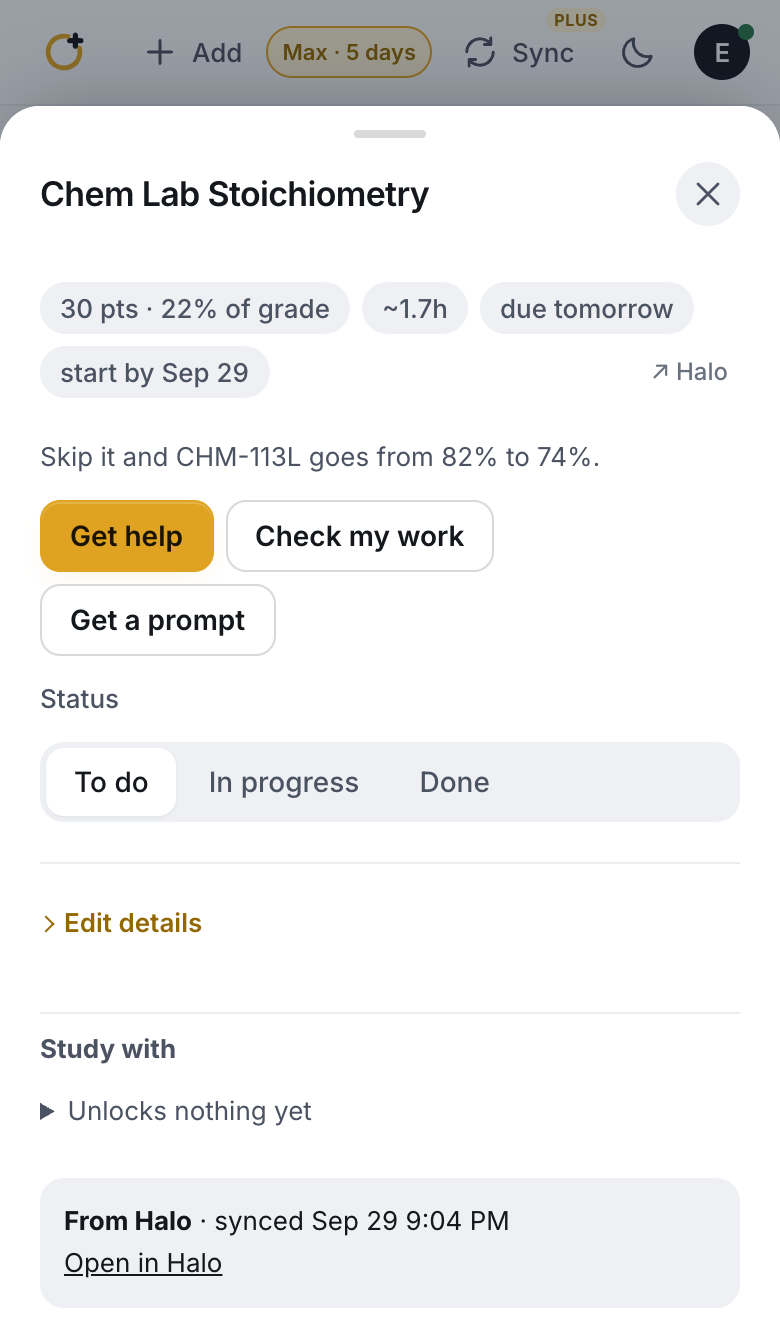
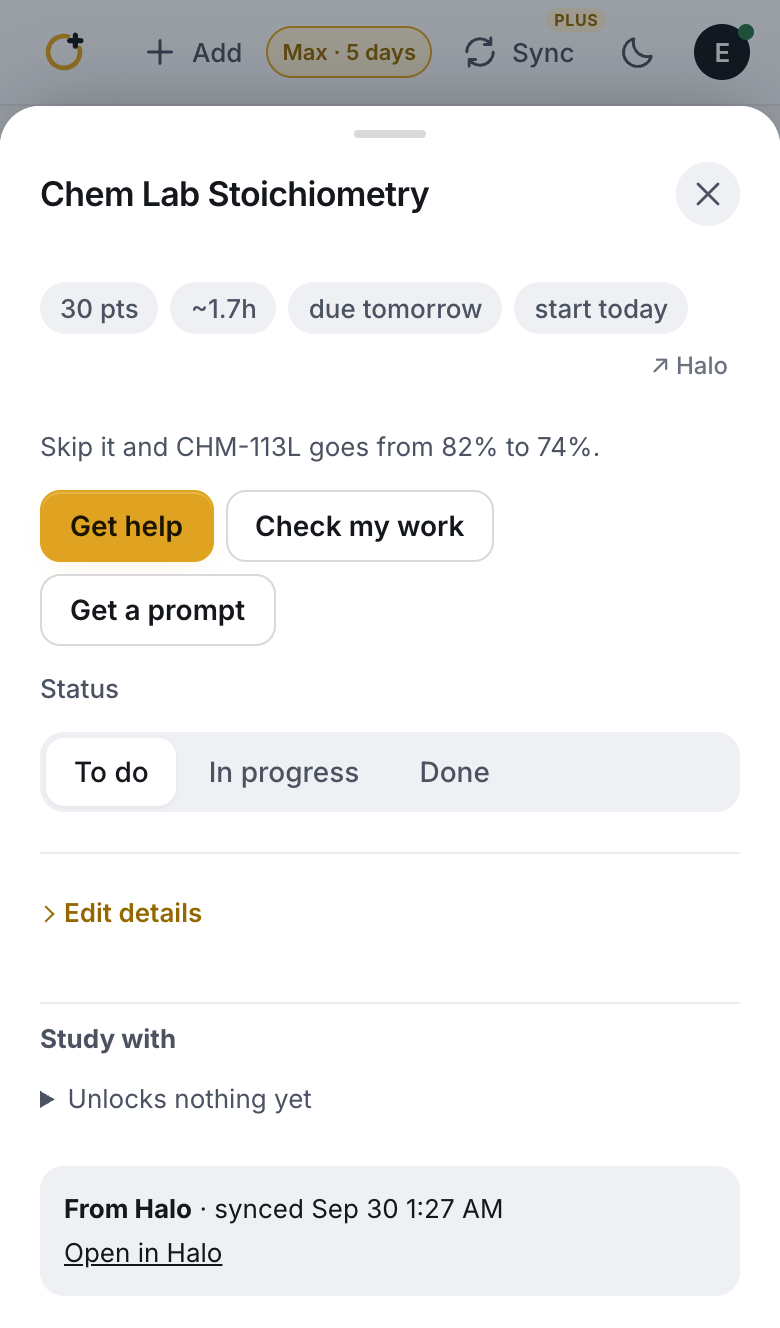
Loop 167: start-by says start today / start tomorrow / start by Oct 3, one way on rows and the sheet

diff --git a/src/components/ItemRow.tsx b/src/components/ItemRow.tsx
@@ -1,7 +1,7 @@
 import { skipNote } from '../domain/blocked';
 import { HaloJump } from './HaloJump';
 import { movedRecently } from '../domain/requirements';
-import { dateOf, fmtDate, fmtTime } from '../domain/dates';
+import { dateOf, fmtDate, fmtTime, startByLabel } from '../domain/dates';
 import { useEffect, useState } from 'react';
 import type { Item } from '../domain/types';
 import { useStore } from '../storage/store';
@@ -87,7 +87,7 @@ export function ItemRow({ item, onOpen, showStart = false, compact = false, date
           {item.flags.inClass && <span className="flag">in class</span>}
           {item.flags.group && <span className="flag">group</span>}
           {done && haloSaysNotIn(item) && item.halo && item.halo.checkedAt > item.dueAt && <span className="flag flag-late">Halo says not submitted</span>}
-          {showStart && sched && !done && !sched.risk && <span>start by {shortDate(sched.startBy)}</span>}
+          {showStart && sched && !done && !sched.risk && <span>{startByLabel(sched.startBy, today)}</span>}
         </span>
       </button>
       <span className="item-side">
@@ -101,9 +101,4 @@ export function ItemRow({ item, onOpen, showStart = false, compact = false, date
       </span>
     </li>
   );
-}
-
-function shortDate(d: string): string {
-  const [, m, day] = d.split('-');
-  return `${Number(m)}/${Number(day)}`;
 }

diff --git a/src/views/ItemDetail.tsx b/src/views/ItemDetail.tsx
@@ -21,7 +21,7 @@ import { Requirements } from './Requirements';
 import { RulesOnItem } from './ClassRules';
 import { Sure } from './PlanReview';
 import { WorkPanel } from './WorkPanel';
-import { addDays } from '../domain/dates';
+import { addDays, startByLabel } from '../domain/dates';
 import { Modal } from '../components/Modal';
 import { SegmentedControl } from '../components/SegmentedControl';
 import { dateOf, fmtDate, fmtMinutes, makeIso, zonedParts } from '../domain/dates';
@@ -191,7 +191,7 @@ export function ItemDetail({ item, isNew = false, onClose }: { item: Item; isNew
               </span>
             ))}
             {/* A start-by day that has passed is noise next to "due was": the only advice left is to start. */}
-            {sched && item.status !== 'done' && sched.startBy >= today && <span className="pill">start by {fmtDate(sched.startBy, 'short')}</span>}
+            {sched && item.status !== 'done' && sched.startBy >= today && <span className="pill">{startByLabel(sched.startBy, today)}</span>}
             <HaloJump item={item} course={course} />
           </p>
         )}

diff --git a/src/domain/dates.test.ts b/src/domain/dates.test.ts
@@ -72,3 +72,13 @@ describe('dates', () => {
     expect(fmtTime('2026-09-25T08:00:00-07:00', PHX)).toBe('8:00 AM');
   });
 });
+
+describe('startByLabel', () => {
+  it('says today and tomorrow in words, a later day as a date, and never a day already past', async () => {
+    const { startByLabel } = await import('./dates');
+    expect(startByLabel('2026-09-30', '2026-09-30')).toBe('start today');
+    expect(startByLabel('2026-09-29', '2026-09-30')).toBe('start today');
+    expect(startByLabel('2026-10-01', '2026-09-30')).toBe('start tomorrow');
+    expect(startByLabel('2026-10-03', '2026-09-30')).toBe('start by Oct 3');
+  });
+});

diff --git a/src/domain/dates.ts b/src/domain/dates.ts
@@ -191,3 +191,10 @@ export function fmtMinutes(min: number): string {
   const h = min / 60;
   return Number.isInteger(h) ? `${h}h` : `${h.toFixed(1).replace(/\.0$/, '')}h`;
 }
+
+/** "start today", "start tomorrow" or "start by Oct 3": one wording for the start-by date on rows and the sheet. */
+export function startByLabel(startBy: DateStr, today: DateStr): string {
+  if (startBy <= today) return 'start today';
+  if (startBy === addDays(today, 1)) return 'start tomorrow';
+  return `start by ${fmtDate(startBy, 'short')}`;
+}

diff --git a/LOOP_LOG.md b/LOOP_LOG.md
@@ -193,3 +193,4 @@ One line per change, newest last. Proposals that need George's approval are mark
 - 2026-09-30 · Loop 164 (overnight loop 7 of 10) · New student on an iPad, dark (first-five walk, iPad dark and phone light, no console errors): Now's hero said "English DQ 1.1 · 10 pts · 67% of grade". The share was the item's points over whatever the class had on file, with no minimum, so right after a first sync (or whenever Halo lists only a few assignments) a 10-point discussion looked like two-thirds of the grade; the sweep account showed "Quiz 2 · 50 pts · 53% of grade" the same way, and the old test even expected "100% of grade" for a lone item. The share now needs at least six pointed items in the class (domain/share.ts SHARE_MIN_ITEMS); below that the chip says just "10 pts". Checked against George's real account (read only): every class has 27 to 41 pointed items and about 1,000 points, so real students still see it. Tests: share and heroFacts updated (a thin class shows the points alone).
 - 2026-09-30 · Loop 165 (overnight loop 8 of 10) · Daily user, Calendar → Month (sweep, desk dark and phone light/dark). Today's cell looked broken: the "30" spilled out of its gold circle (a fixed 22 px circle with 6 px side padding leaves 10 px for two digits; it is now a pill with a 22 px minimum), and in dark mode today's item chip was near-black text on dark grey ("Topic 4 DQ…" barely readable): a dark-theme rule meant for the old filled chips set #0f1216 on every today chip and outranked the plain month chip; it now skips plain chips. On a phone each cell is ~44 px, so the day number and its count badge ("29 1", "30 1") spilled out side by side; under 640 px they stack (number, then count) and the cell padding tightens. Re-swept all three, no findings.
 - 2026-09-30 · Loop 166 (overnight loop 9 of 10) · The extension (scripts/e2e-extension.mjs against a fresh haloplus.app build, unpacked in Chromium): everything held (Sync now with real progress, logged out calmly with no badge, the background Halo tab opened inactive and closed, quiet apply with Undo, waiting while Halo+ is closed, Free not scheduled), but the popup's own status line was wrong: "Last synced 2:19 AM · Next sync around 2:19 AM". On install with no sync yet the alarm is set a minute out; a Sync now just after did not move it, so the popup showed that alarm, which would then skip itself as "synced recently". Every successful sync now restarts the three hours from that moment, and the popup never shows a next time earlier than last sync + 3 h. The e2e now checks the gap: "Last synced 2:23 AM · Next sync around 5:23 AM" (180 minutes). Extension 0.2.1 (reload it in chrome://extensions).
+- 2026-09-30 · Loop 167 (overnight loop 10 of 10) · Daily user, an assignment's sheet: on the day to start, the pill said "start by Sep 29" (today's own date), and the Calendar rows said the same thing a third way ("start by 9/29"). One wording now (domain/dates.ts startByLabel): "start today" (also for a start day already past, never a date behind you), "start tomorrow", else "start by Oct 3" in the app's date format, on the sheet and on rows. New test; swept the phone sheet and Now. End of the ten overnight loops.
